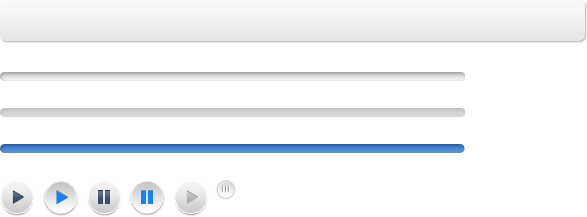
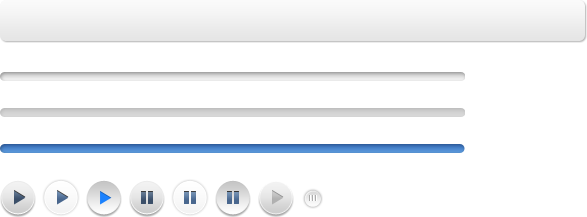
updated

Changed region(s): [[0.0, 0.8295, 0.552, 1.0], [0.092, 0.9677, 0.1227, 0.9954]]

diff --git a/css/component/ets-media_player.css b/css/component/ets-media_player.css
@@ -22,7 +22,7 @@
 }
 .mejs-container .mejs-controls .mejs-button button {
   background: url(#cacheSvr#/_imgs/ui/courseware/study/media_player.png) 0 -180px no-repeat transparent;
-  height: 36px;
+  height: 37px;
   width: 36px;
   margin: 0;
 }
@@ -32,6 +32,9 @@
   height: 41px;
   width: 36px;
 }
+.mejs-container .mejs-controls .mejs-play button.mejs-button-hover {
+  background-position: -43px -180px;
+}
 .mejs-container .mejs-controls .mejs-pause {
   margin-left: 15px;
   padding-top: 2px;
@@ -39,7 +42,10 @@
   width: 36px;
 }
 .mejs-container .mejs-controls .mejs-pause button {
-  background-position: -88px -180px;
+  background-position: -129px -180px;
+}
+.mejs-container .mejs-controls .mejs-pause button.mejs-button-hover {
+  background-position: -172px -180px;
 }
 .mejs-container .mejs-controls .mejs-time span {
   color: #494949;
@@ -89,7 +95,7 @@
   -webkit-border-radius: 0;
   -moz-border-radius: 0;
   border-radius: 0;
-  background: url(#cacheSvr#/_imgs/ui/courseware/study/media_player.png) -216px -180px no-repeat transparent;
+  background: url(#cacheSvr#/_imgs/ui/courseware/study/media_player.png) -302px -188px no-repeat transparent;
   width: 20px;
   height: 20px;
   border: 0;

diff --git a/less/component/ets-media_player.less b/less/component/ets-media_player.less
@@ -31,7 +31,7 @@
 
 		.mejs-button button{
 			background: @img 0 -180px no-repeat transparent;			
-			height: 36px;
+			height: 37px;
 			width: 36px;
 			margin: 0;
 		}
@@ -41,6 +41,10 @@
 			padding-top: 2px;
 			height: 41px;
 			width: 36px;
+
+			button.mejs-button-hover {
+				background-position: -43px -180px;
+			}
 		}
 
 		.mejs-pause {
@@ -50,8 +54,12 @@
 			width: 36px;
 
 			button {
-				background-position: -88px -180px;
-			}	
+				background-position: -129px -180px;
+			}
+
+			button.mejs-button-hover {
+				background-position: -172px -180px;
+			}
 		}
 
 		.mejs-time {
@@ -110,7 +118,7 @@
 				-webkit-border-radius: 0;
 				-moz-border-radius: 0;
 				border-radius: 0;
-				background: @img -216px -180px no-repeat transparent;
+				background: @img -302px -188px no-repeat transparent;
 				width: 20px;
 				height: 20px;
 				border: 0;

diff --git a/script/views/widget/media_player.js b/script/views/widget/media_player.js
@@ -14,7 +14,13 @@ define(['jquery',
 
 		template: tpl,
 
+		events: {
+			'mouseover .mejs-playpause-button button': 'hoverButton',
+			'mouseout .mejs-playpause-button button': 'leaveButton'
+		},
+
 		initialize: function() {
+			
 		},
 
 		domReady: false,
@@ -64,6 +70,15 @@ define(['jquery',
 			}
 			
 			this.$('audio').mediaelementplayer(options);
+		},
+
+		/*button events*/
+		hoverButton: function(e) {
+			$(e.target).addClass('mejs-button-hover');
+		},
+		leaveButton: function(e) {
+			_.log('leave')
+			$(e.target).removeClass('mejs-button-hover');
 		}
 	});
 
